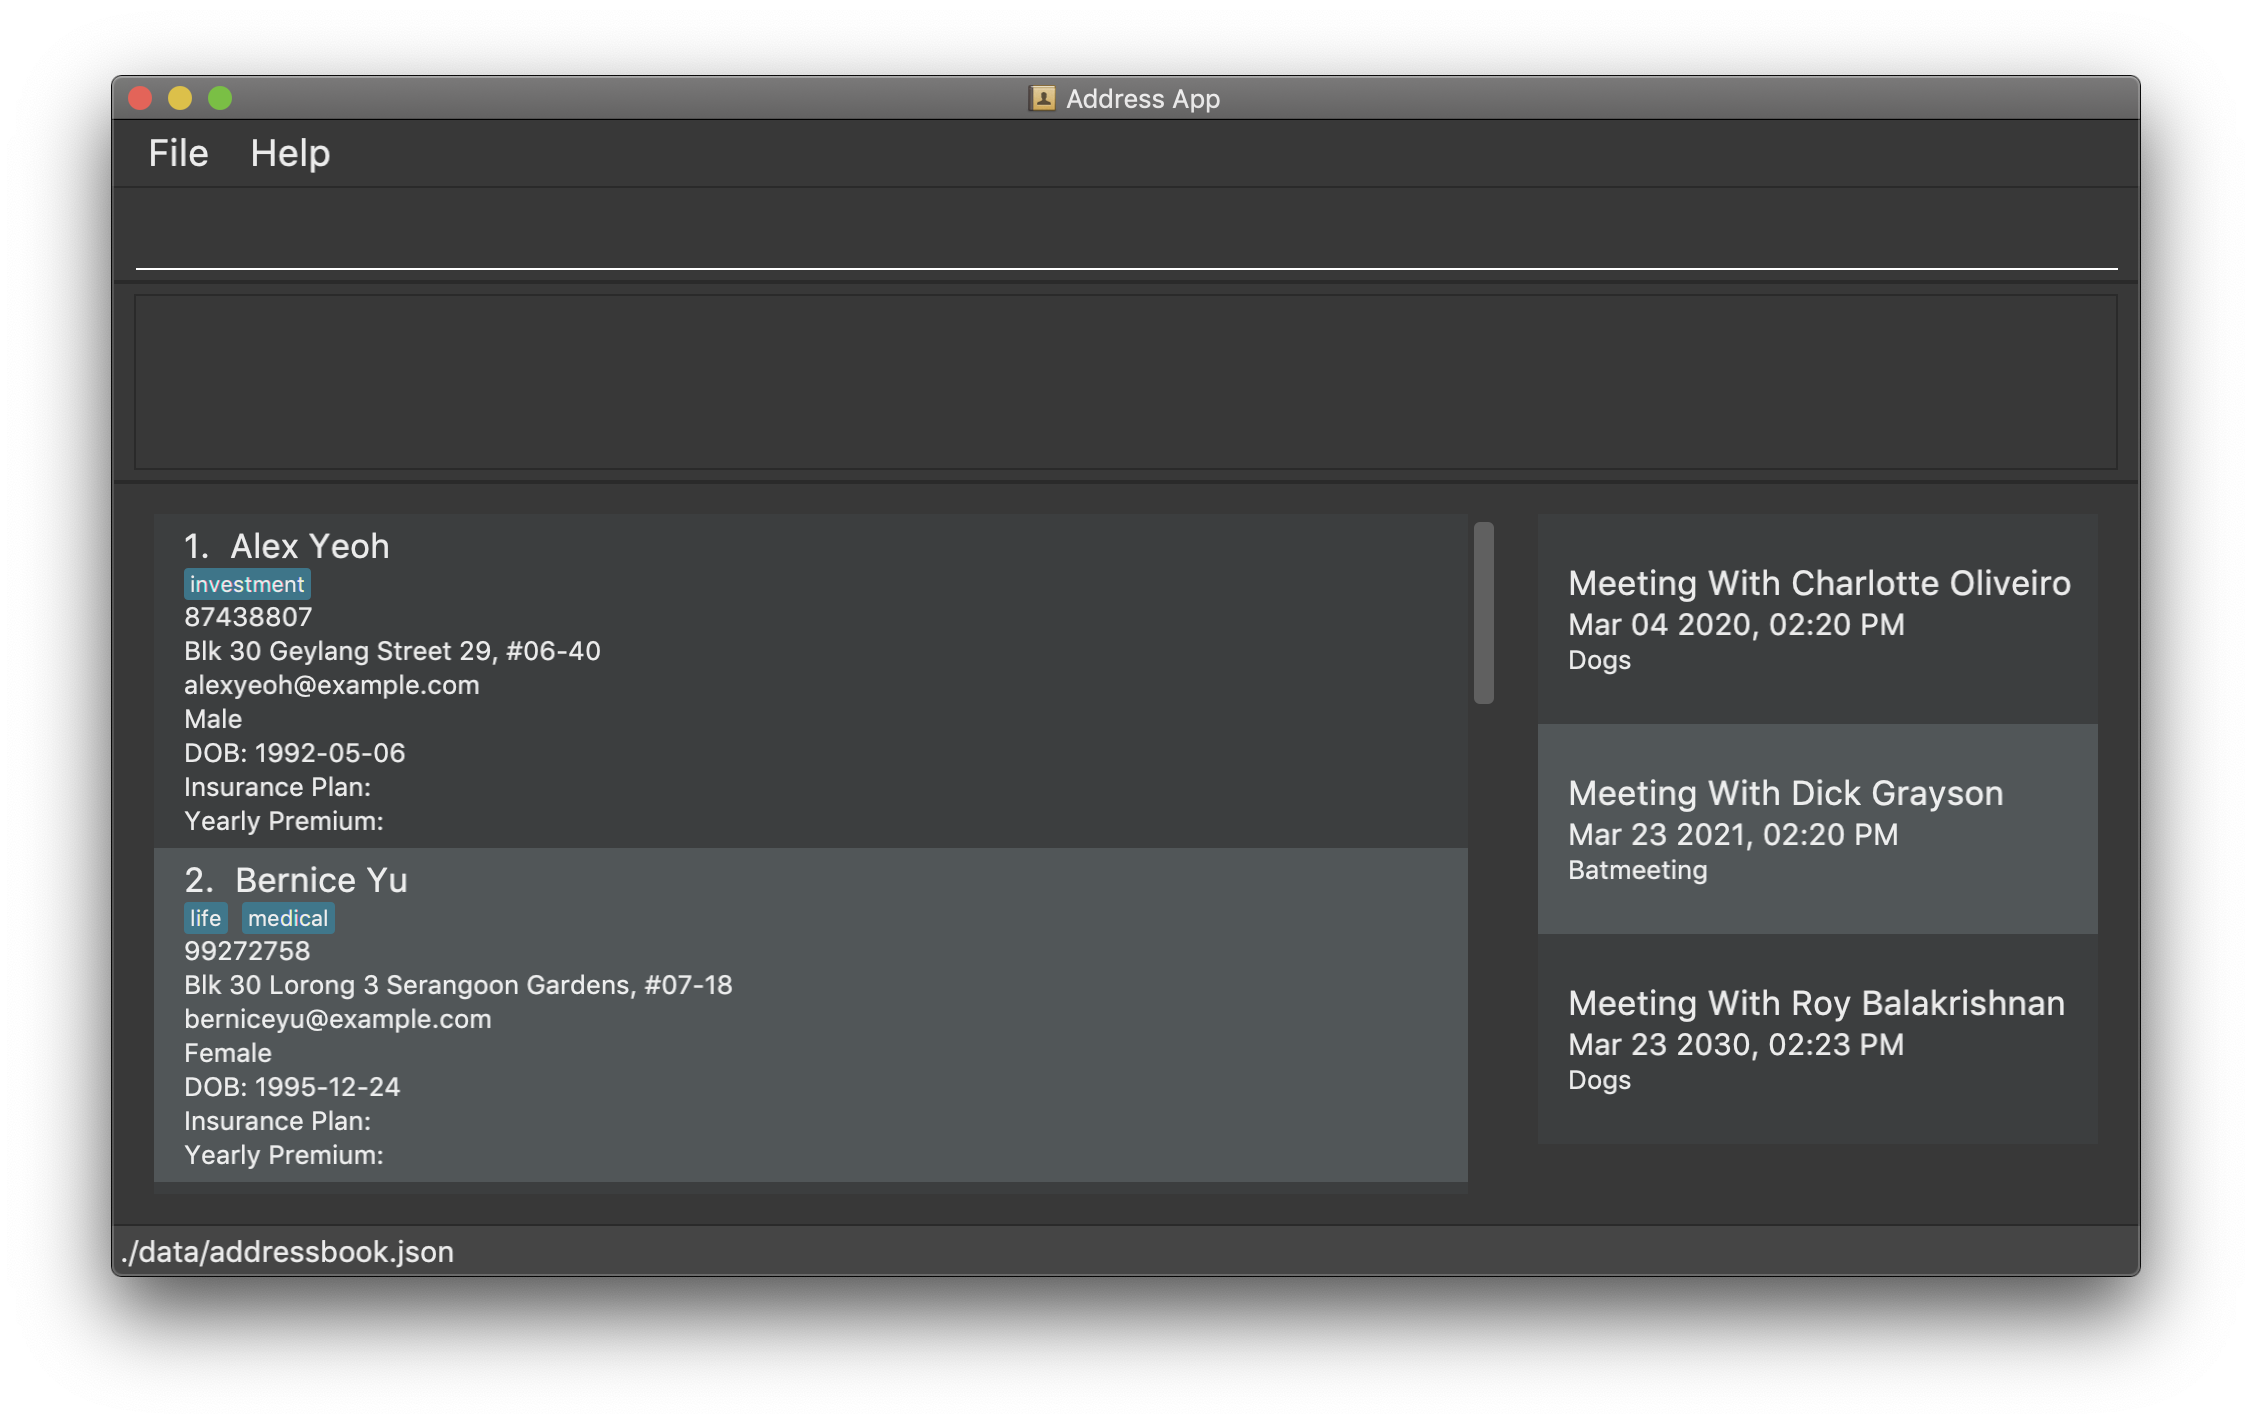
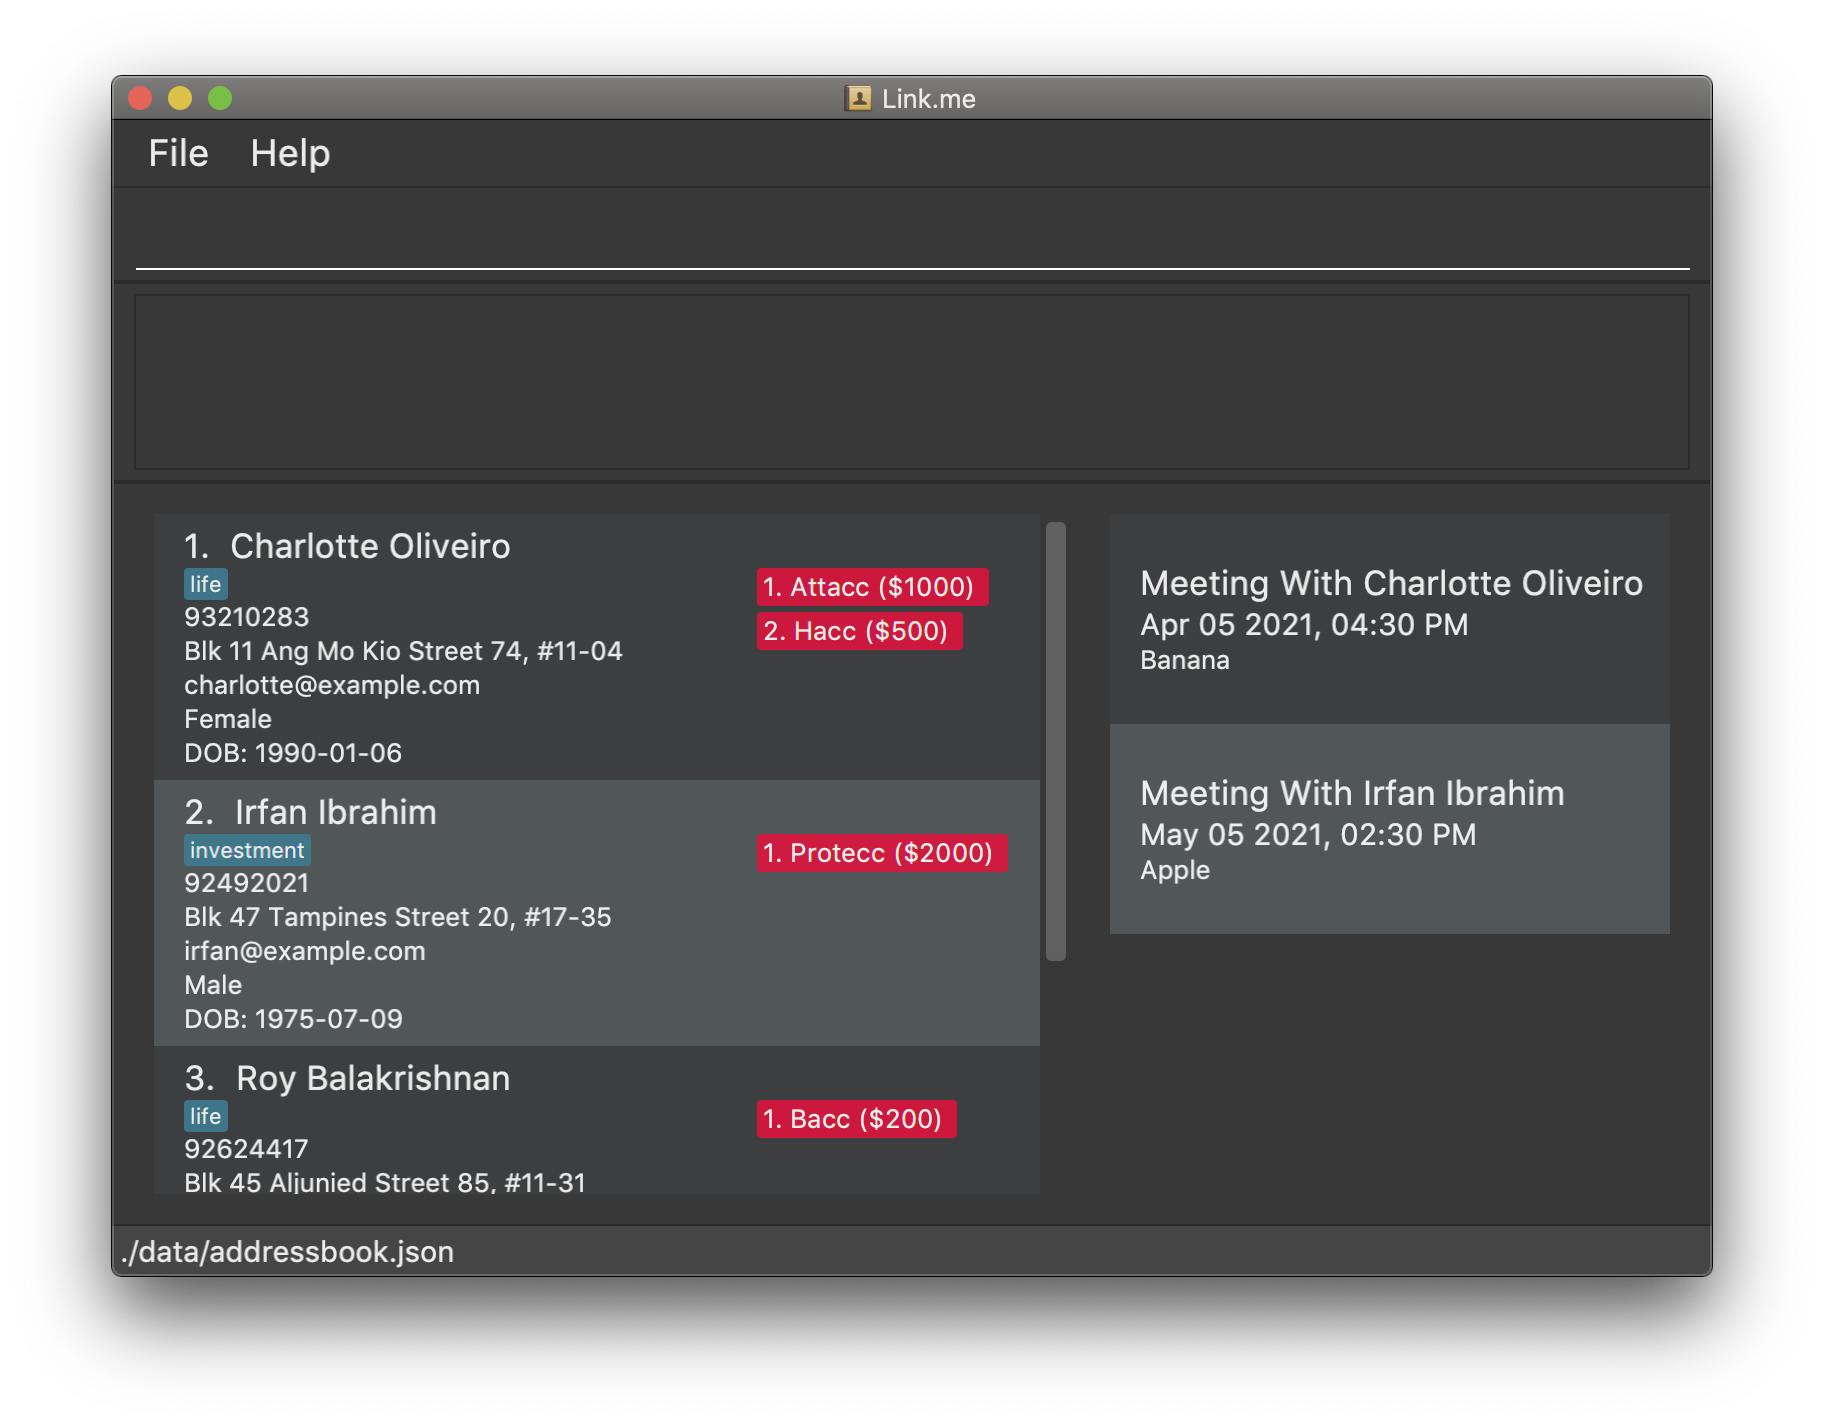
Add Layout Introduction to UG

Changed region(s): [[0.0312, 0.0309, 0.9688, 0.927], [0.6875, 0.6798, 0.9062, 0.7725], [0.4375, 0.0618, 0.5312, 0.0927]]

diff --git a/docs/UserGuide.md b/docs/UserGuide.md
@@ -46,9 +46,30 @@ ever-increasing clients.
 1. Refer to the [Features](#features) section below for details of each command.
 
 --------------------------------------------------------------------------------------------------------------------
-## Overview of Features
+## Overview 
+
+### Layout
+The structure of the Link.me interface is split into five main parts:
+![Layout](images/Layout.png)
+The Input Command Line is where the user inputs the commands for execution.
+
+The Result Display displays the result of the user input.
+
+The Client List displays a list of client stored in Link.me, and changes according to the use input.
+
+The Meeting List displays a list of meetings that are scheduled in Link.me.
+
+The Status Bar displays status information regarding the storage unit. (Not relevant for basic users.)
+
+![PersonLayout](images/PersonLayout.png)
+Each client has basic information stored, as well as insurance plans and premiums attached.
+
+![MeetingLayout](images/MeetingLayout.png)
+Each meeting has the client stores, as well as the meeting time and a brief description of the meeting agenda.
+
+### Functionalities
 The features of Link.me mainly revolve around adding and editing clients as Link.me is first and foremost a client
-managing app. 
+managing app.
 
 Features of Link.me include adding, editing, deleting, searching for and filtering clients. Link.me also supports peripheral features such as meeting scheduling, 
 recording client notes and notifying the user of important upcoming events. 
@@ -353,16 +374,16 @@ Examples:
 
 ### Displaying notifications : `notif`
 
-You can view a notification window informing you of upcoming client birthdays and meetings, so that you can plan
-ahead and 
+You can view a notification window informing you of client birthdays within the next two weeks and upcoming meetings,
+which should notify you in time with a reasonable amount of time to prepare beforehand.
 
 This notification window is also shown when starting up Link.me.
 
 Format: `notif`
 
 Notification window contains:
-* All client birthdays within the next two weeks.
 * All meetings occurring today, arranged in order of time.
+* All client birthdays within the next two weeks, arranged in order of time.
 
 ![notif message](images/notifMessage.png)
 
